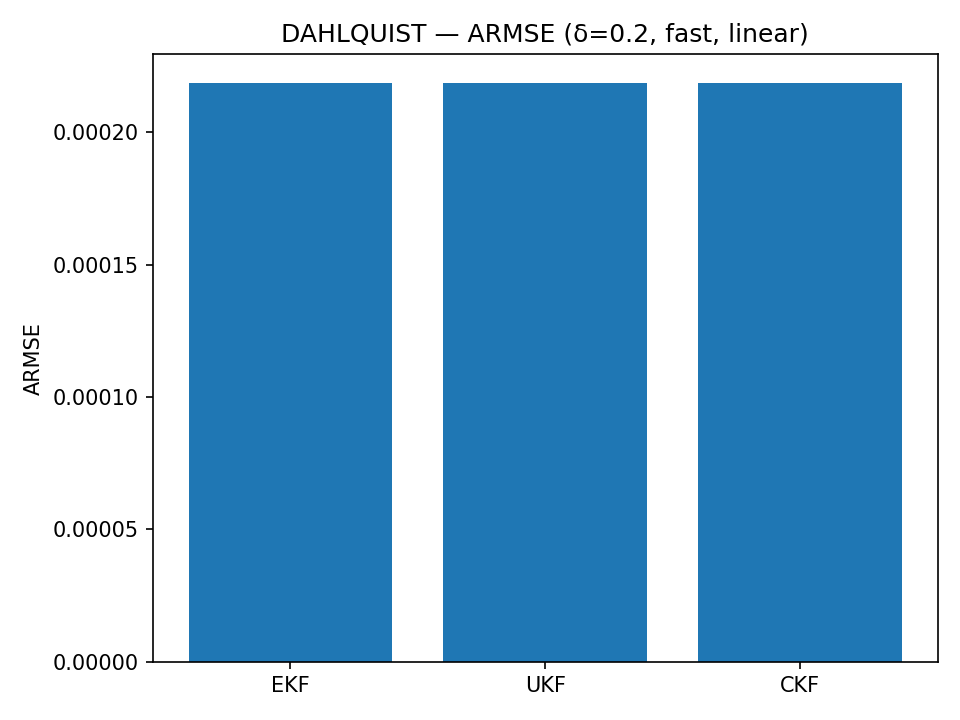
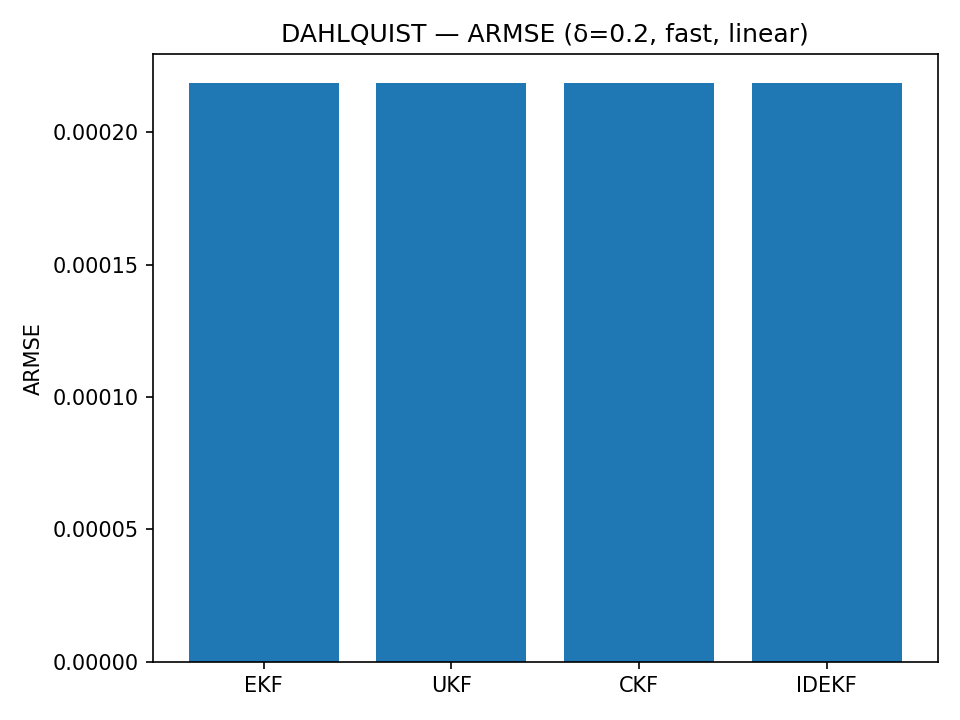
edits

diff --git a/run_armse.py b/run_armse.py
@@ -1,5 +1,5 @@
 # run_armse.py
-# Benchmark driver for conventional CD-EKF / CD-UKF / CD-CKF (no square-root).
+# Benchmark driver for conventional CD-EKF / CD-UKF / CD-CKF / CD-IDEKF (no square-root).
 from __future__ import annotations
 import os
 import argparse
@@ -8,7 +8,7 @@ import matplotlib.pyplot as plt
 from typing import List
 from scipy.integrate import solve_ivp
 
-from filters import ContinuousModel, CDEKF, CDUKF, CDCKF, ensure_psd
+from filters import ContinuousModel, CDEKF, CDUKF, CDCKF, CDIDEKF, ensure_psd
 from models import (
     dahlquist_f, dahlquist_J, dahlquist_h, dahlquist_H, dahlquist_G, dahlquist_Qc,
     vdp_f, vdp_J, vdp_h, vdp_H, vdp_h_nonlinear, vdp_H_nonlinear, vdp_G, vdp_Qc,
@@ -31,7 +31,7 @@ def run_cd(case: str, deltas: List[float], N_runs: int, seed: int, outdir: str,
            profile: str = "fast", meas: str = "linear"):
     """
     profile: 'fast' (quick) or 'paper' (strict tolerances / step sizes)
-    meas   : 'linear' (matches paper) or 'nonlinear' (accentuate UKF vs CKF)
+    meas   : 'linear' (matches paper) or 'nonlinear' (accentuates UKF vs CKF)
     """
     rng0 = np.random.default_rng(seed)
     os.makedirs(outdir, exist_ok=True)
@@ -47,10 +47,10 @@ def run_cd(case: str, deltas: List[float], N_runs: int, seed: int, outdir: str,
         vdp_tf = 2.0
     else:  # fast
         integ_method = "BDF"
-        truth_rtol, truth_atol = 1e-6, 1e-9
+        truth_rtol, truth_atol = 1e-3, 1e-3
         flt_rtol, flt_atol = 1e-6, 1e-9
         maxstep_factor = 0.5
-        vdp_mu = 1.0e3
+        vdp_mu = 1.0e2
         vdp_tf = 1.0
 
     for delta in deltas:
@@ -78,13 +78,8 @@ def run_cd(case: str, deltas: List[float], N_runs: int, seed: int, outdir: str,
 
         cm = ContinuousModel(f=f, J=J, G=G, Qc=Qc)
 
-        # Filters (conventional matrix form)
-        ekf = CDEKF(cm, h, H, R, rtol=flt_rtol, atol=flt_atol, max_step=maxstep_factor*delta, method=integ_method)
-        ukf = CDUKF(cm, h, R,      rtol=flt_rtol, atol=flt_atol, max_step=maxstep_factor*delta, method=integ_method)
-        ckf = CDCKF(cm, h, R,      rtol=flt_rtol, atol=flt_atol, max_step=maxstep_factor*delta, method=integ_method)
-
         t_grid = np.arange(t0, tf + 1e-12, delta)
-        err = {k: [] for k in ["EKF", "UKF", "CKF"]}
+        err = {k: [] for k in ["EKF", "UKF", "CKF", "IDEKF"]}
 
         for _ in range(N_runs):
             rng = np.random.default_rng(rng0.integers(1 << 32))
@@ -100,8 +95,13 @@ def run_cd(case: str, deltas: List[float], N_runs: int, seed: int, outdir: str,
             zs = np.array([h(x_true[k]) + chol_R @ rng.normal(size=R.shape[0])
                            for k in range(len(t_grid))])
 
-            # Run filters
-            for name, flt in [("EKF", ekf), ("UKF", ukf), ("CKF", ckf)]:
+            # Fresh filter objects each run (avoid state carryover, esp. IDEKF)
+            ekf   = CDEKF(cm, h, H, R, rtol=flt_rtol, atol=flt_atol, max_step=maxstep_factor*delta)
+            ukf   = CDUKF(cm, h, R,      rtol=flt_rtol, atol=flt_atol, max_step=maxstep_factor*delta)
+            ckf   = CDCKF(cm, h, R,      rtol=flt_rtol, atol=flt_atol, max_step=maxstep_factor*delta)
+            idekf = CDIDEKF(cm, h, H, R, rtol=flt_rtol, atol=flt_atol, max_step=maxstep_factor*delta)
+
+            for name, flt in [("EKF", ekf), ("UKF", ukf), ("CKF", ckf), ("IDEKF", idekf)]:
                 x, P = x0.copy(), np.eye(x0.size, dtype=float) * 1e-2
                 x_est = [x.copy()]
                 for k in range(1, len(t_grid)):
@@ -122,11 +122,11 @@ def run_cd(case: str, deltas: List[float], N_runs: int, seed: int, outdir: str,
         with open(csv_path, "a", newline="") as f:
             w = csv.writer(f)
             if write_header:
-                w.writerow(["delta", "EKF", "UKF", "CKF"])
-            w.writerow([delta, results[delta]["EKF"], results[delta]["UKF"], results[delta]["CKF"]])
+                w.writerow(["delta", "EKF", "UKF", "CKF", "IDEKF"])
+            w.writerow([delta, results[delta]["EKF"], results[delta]["UKF"], results[delta]["CKF"], results[delta]["IDEKF"]])
 
         # Short bar per delta
-        labels = ["EKF", "UKF", "CKF"]
+        labels = ["EKF", "UKF", "CKF", "IDEKF"]
         vals = [results[delta][lab] for lab in labels]
         plt.figure()
         plt.bar(labels, vals)
@@ -139,8 +139,8 @@ def run_cd(case: str, deltas: List[float], N_runs: int, seed: int, outdir: str,
 
     # Summary line plot
     deltas_sorted = sorted(results.keys())
-    plt.figure(figsize=(7, 5))
-    for name in ["EKF", "UKF", "CKF"]:
+    plt.figure(figsize=(8, 5))
+    for name in ["EKF", "UKF", "CKF", "IDEKF"]:
         ys = [results[d][name] for d in deltas_sorted]
         plt.plot(deltas_sorted, ys, marker="o", label=name)
     plt.xlabel("sampling period δ")
@@ -159,10 +159,10 @@ def run_cd(case: str, deltas: List[float], N_runs: int, seed: int, outdir: str,
 if __name__ == "__main__":
     parser = argparse.ArgumentParser()
     parser.add_argument("--case", choices=["dahlquist", "vdp"], default="vdp")
-    parser.add_argument("--runs", type=int, default=1)                 # small by default (quick)
+    parser.add_argument("--runs", type=int, default=1)                
     parser.add_argument("--seed", type=int, default=0)
     parser.add_argument("--outdir", type=str, default="results")
-    parser.add_argument("--deltas", type=float, nargs="*", default=[0.1,0.2,0.3,0.4,0.5])
+    parser.add_argument("--deltas", type=float, nargs="*", default=[0.5])
     parser.add_argument("--profile", choices=["fast","paper"], default="fast")
     parser.add_argument("--meas", choices=["linear","nonlinear"], default="linear")
     args = parser.parse_args()
@@ -170,5 +170,4 @@ if __name__ == "__main__":
     res = run_cd(args.case, args.deltas, N_runs=args.runs, seed=args.seed,
                  outdir=args.outdir, profile=args.profile, meas=args.meas)
     for d in sorted(res.keys()):
-        print(f"delta={d:g}: EKF={res[d]['EKF']:.6g}, UKF={res[d]['UKF']:.6g}, CKF={res[d]['CKF']:.6g}")
-
+        print(f"delta={d:g}: EKF={res[d]['EKF']:.6g}, UKF={res[d]['UKF']:.6g}, CKF={res[d]['CKF']:.6g}, IDEKF={res[d]['IDEKF']:.6g}")

diff --git a/filters.py b/filters.py
@@ -220,3 +220,75 @@ class CDCKF:
         x_upd = x_pred + K @ y
         P_upd = ensure_psd(P_pred - K @ S @ K.T)
         return x_upd, P_upd, y, S
+    
+# ---- CDIDEKF: continuous–discrete Information-form EKF (uses IDKalman ops) ----
+# --- add these imports near the top of filters.py, with your other imports ---
+from IDKalman.COVtoINF import cov_to_inf
+from IDKalman.INFtoCOV import inf_to_cov
+from IDKalman.Mupdate import mupdate
+
+class CDIDEKF:
+    """
+    Continuous–discrete IDEKF:
+      - Time update: matrix MDE in covariance form (same as EKF) using solve_ivp
+      - Measurement update: information-form update via IDKalman.mupdate
+    """
+    def __init__(self, cm: ContinuousModel, h_fun, H_fun, R,
+                 rtol: float = 1e-12, atol: float = 1e-12,
+                 max_step: float = 1e-1, method: str = "Radau"):
+        self.cm = cm
+        self.h  = h_fun
+        self.H  = H_fun
+        self.R  = np.asarray(R, dtype=float)
+        self.rtol, self.atol = rtol, atol
+        self.max_step, self.method = max_step, method
+
+    def _integrate_mde(self, t0: float, t1: float, x0: np.ndarray, P0: np.ndarray):
+        n = x0.size
+        def rhs(t, y):
+            x = y[:n]
+            P = y[n:].reshape(n, n)
+            Fx = self.cm.f(t, x)
+            Jx = self.cm.J(t, x)
+            Gt = self.cm.G(t)
+            Qc = self.cm.Qc(t)
+            dP = Jx @ P + P @ Jx.T + Gt @ Qc @ Gt.T
+            return np.hstack([Fx, dP.ravel()])
+        y0 = np.hstack([x0, P0.ravel()])
+        sol = solve_ivp(rhs, (t0, t1), y0, method=self.method,
+                        rtol=self.rtol, atol=self.atol, max_step=self.max_step)
+        x1 = sol.y[:n, -1]
+        P1 = sol.y[n:, -1].reshape(n, n)
+        return x1, ensure_psd(P1)
+
+    def predict(self, t_prev: float, t_curr: float, x_prev: np.ndarray, P_prev: np.ndarray):
+        return self._integrate_mde(t_prev, t_curr, x_prev, P_prev)
+
+    def update(self, x_pred: np.ndarray, P_pred: np.ndarray, z: np.ndarray):
+        # Build linearization at x_pred
+        Hk = self.H(x_pred)
+        # Convert prior covariance to information parameters
+        B, V, _ = cov_to_inf(P_pred, P_pred.shape[0])
+        u = x_pred.reshape(-1, 1)
+
+        # Wrap nonlinear measurement if needed
+        h_wrapped = None
+        if callable(self.h):
+            def h_wrapped(u_vec):
+                return np.asarray(self.h(np.asarray(u_vec).reshape(-1))).reshape(-1, 1)
+
+        # Information-form measurement update (IDKalman)
+        z_col = np.asarray(z).reshape(-1, 1)
+        u_post, V_post, B_post, _, _ = mupdate(1, z_col, u, B, V, self.R, Hk, h_wrapped)
+
+        # Convert back to mean/covariance
+        x_upd = np.asarray(u_post).reshape(-1)
+        P_upd = ensure_psd(inf_to_cov(np.asarray(V_post).reshape(-1),
+                                      np.asarray(B_post), x_upd.size))
+
+        # Provide innovation y and S for logging (computed in covariance form)
+        zhat = (self.h(x_pred) if callable(self.h) else (Hk @ x_pred.reshape(-1,1)).ravel())
+        y = (np.asarray(z).ravel() - np.asarray(zhat).ravel())
+        S = ensure_psd(Hk @ P_pred @ Hk.T + self.R)
+
+        return x_upd, P_upd, y, S
